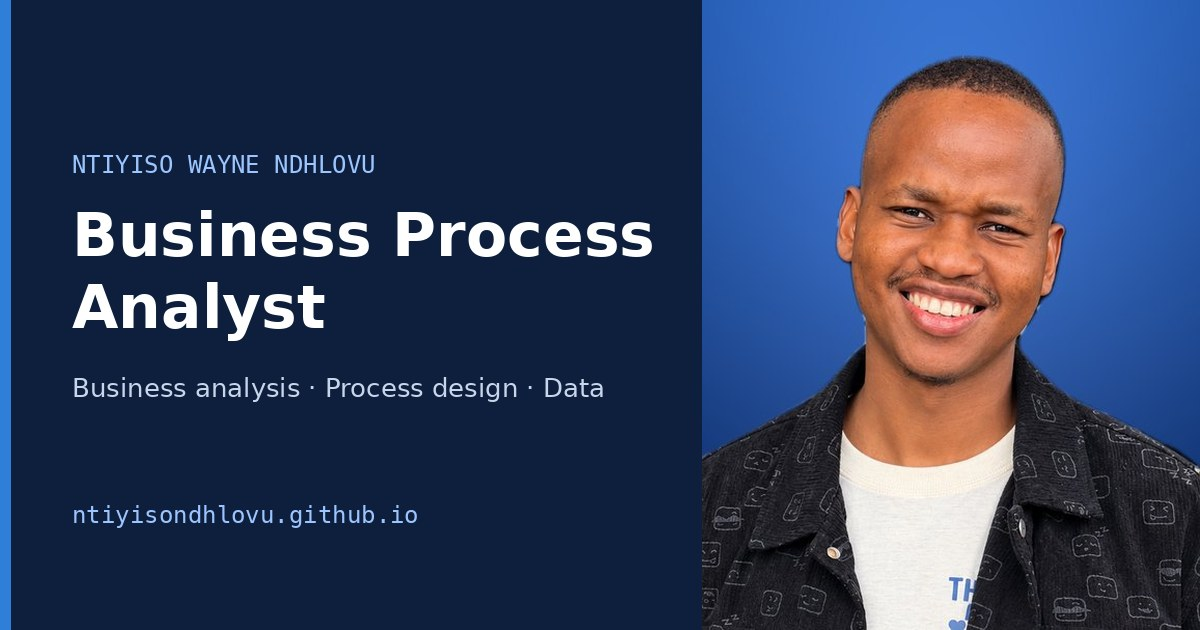
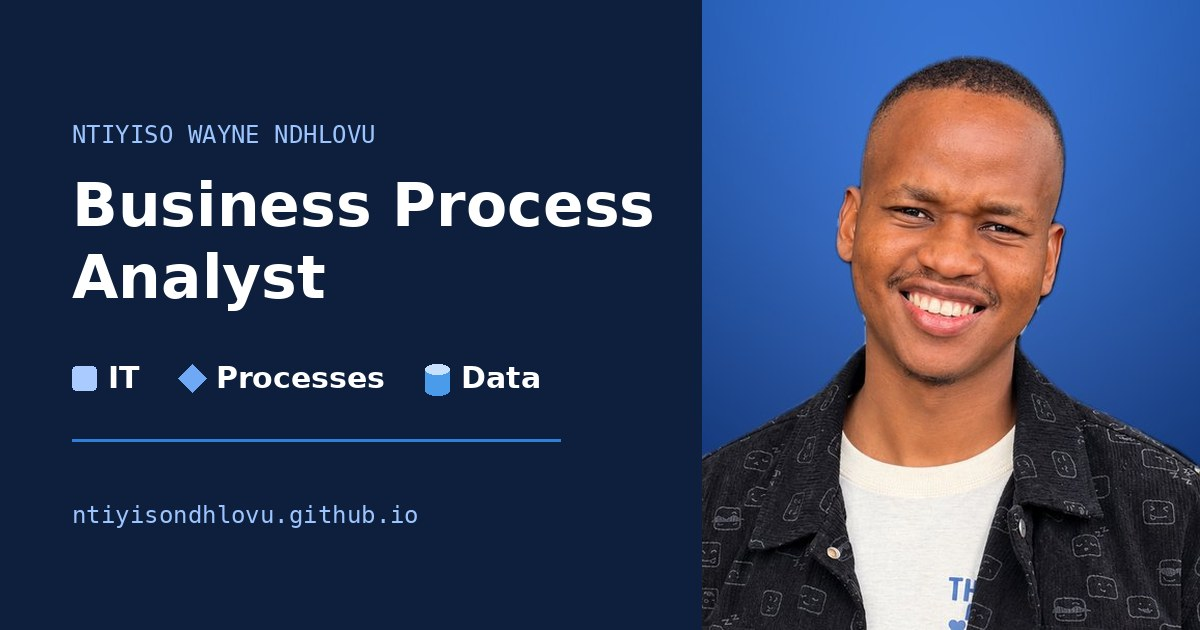
Brand the site around IT, processes and data

diff --git a/index.html b/index.html
@@ -9,8 +9,8 @@ title: Business Process Analyst
         <div class="status">Business Process Analyst · African Bank</div>
       </div>
       <h1>I turn how work actually gets done into <em>processes people can follow.</em></h1>
-      <p class="lede">I'm a business analyst by training, with four years of it in banking. I gather requirements, map value streams, model processes in BPMN and write the SOPs operations teams work from. I started out writing code and building dashboards, and I'm now moving into data engineering so the processes I design can be measured.</p>
-      <div class="chips hero-chips"><span class="chip">Requirements</span><span class="chip">User stories</span><span class="chip">BPMN</span><span class="chip">UAT</span><span class="chip">SOPs</span><span class="chip">Power BI</span></div>
+      <p class="lede">I work where IT, processes and data meet. I'm a computer science graduate turned business analyst, with four years in banking. I gather requirements, map value streams, model processes in BPMN and write the SOPs operations teams work from. I started out writing code and building dashboards, and I'm now moving into data engineering so the processes I design can be measured.</p>
+      <div class="pillar-chips"><a href="#pillars" class="pc it"><i></i>IT</a><a href="#pillars" class="pc proc"><i></i>Processes</a><a href="#pillars" class="pc data"><i></i>Data</a></div>
       <div class="ctas">
         <a class="btn primary" href="#projects">See my projects</a>
         <a class="btn" href="#contact">Get in touch</a>
@@ -27,6 +27,30 @@ title: Business Process Analyst
       </ol>
     </div>
   </div>
+
+  <section id="pillars">
+    <div class="head"><div class="label">What I bring</div><h2>IT, processes and data, in one analyst</h2><p class="prose" style="margin:0">Most problems I work on sit across all three: a system that holds the data, a process that moves the work, and the numbers that show whether it's working.</p></div>
+    <div class="pillars">
+      <article class="pillar it">
+        <div class="pillar-top"><span class="pillar-icon"><svg viewBox="0 0 24 24" aria-hidden="true"><rect x="3" y="4" width="18" height="12" rx="2"/><path d="M8 20h8M12 16v4"/></svg></span><span class="label">Where I started</span></div>
+        <h3>IT</h3>
+        <p>A computer science degree, an Honours in IT and a year as a graduate software developer. I read ERDs, turn business needs into technical specifications and talk to IT teams in their own terms.</p>
+        <div class="chips"><span class="chip">Systems analysis</span><span class="chip">SQL</span><span class="chip">C# &amp; Python</span><span class="chip">Jira &amp; Confluence</span></div>
+      </article>
+      <article class="pillar proc">
+        <div class="pillar-top"><span class="pillar-icon"><svg viewBox="0 0 24 24" aria-hidden="true"><path d="M12 3l7 9-7 9-7-9z"/></svg></span><span class="label">What I do every day</span></div>
+        <h3>Processes</h3>
+        <p>Requirements workshops, value streams, BPMN models from L0 to L4, SOPs and UAT. I design how work should flow and write it down so people can follow it.</p>
+        <div class="chips"><span class="chip">Requirements</span><span class="chip">BPMN</span><span class="chip">SOPs</span><span class="chip">UAT</span></div>
+      </article>
+      <article class="pillar data">
+        <div class="pillar-top"><span class="pillar-icon"><svg viewBox="0 0 24 24" aria-hidden="true"><ellipse cx="12" cy="6" rx="7" ry="3"/><path d="M5 6v12c0 1.7 3.1 3 7 3s7-1.3 7-3V6M5 12c0 1.7 3.1 3 7 3s7-1.3 7-3"/></svg></span><span class="label">Where I'm heading</span></div>
+        <h3>Data</h3>
+        <p>Power BI models on star schemas, data quality grounded in my DAMA CDMP, and lakehouse builds on AWS. I'm growing from BI into data engineering.</p>
+        <div class="chips"><span class="chip">Power BI &amp; DAX</span><span class="chip">SQL</span><span class="chip">AWS</span><span class="chip">DAMA CDMP</span></div>
+      </article>
+    </div>
+  </section>
 
   <section id="about">
     <div class="head"><div class="label">About</div><h2>Process first, data next</h2></div>

diff --git a/assets/css/site.css b/assets/css/site.css
@@ -215,3 +215,31 @@ body > footer a{color:inherit}
 .share .label{margin-right:4px}
 .share .btn{cursor:pointer;background:var(--bg);font-family:var(--mono)}
 .share-li{background:#0A66C2 !important;color:#fff !important;border-color:#0A66C2 !important}
+
+/* brand: IT · Processes · Data */
+:root{--it:#0F3D7A;--proc:#1F5FBF;--data:#4A9BEA}
+@media (prefers-color-scheme: dark){:root:not([data-theme="light"]){--it:#A9CBFF;--proc:#6FA8F5;--data:#3D8BE0}}
+:root[data-theme="dark"]{--it:#A9CBFF;--proc:#6FA8F5;--data:#3D8BE0}
+.brand{display:flex;align-items:center;gap:12px;color:var(--ink)}
+.mark{width:58px;height:22px;flex:none;color:var(--line)}
+.brand-text{display:grid;line-height:1.15}
+.brand-text small{font-family:var(--mono);font-size:10.5px;font-weight:400;letter-spacing:.08em;text-transform:uppercase;color:var(--muted)}
+.pillar-chips{display:flex;flex-wrap:wrap;gap:10px;margin:-10px 0 28px}
+.pc{display:inline-flex;align-items:center;gap:8px;font-family:var(--mono);font-size:12.5px;text-decoration:none;color:var(--ink);border:1px solid var(--line);border-radius:999px;padding:6px 14px 6px 10px}
+.pc i{width:10px;height:10px;border-radius:2px;background:var(--it)}
+.pc.proc i{background:var(--proc);transform:rotate(45deg)}
+.pc.data i{background:var(--data);border-radius:50%}
+.pc:hover{border-color:var(--accent)}
+.pillars{display:grid;grid-template-columns:repeat(3,minmax(0,1fr));gap:20px}
+@media(max-width:860px){.pillars{grid-template-columns:1fr}}
+.pillar{background:var(--surface);border:1px solid var(--line);border-radius:12px;padding:24px;display:flex;flex-direction:column;gap:10px;position:relative;overflow:hidden}
+.pillar::before{content:"";position:absolute;inset:0 0 auto 0;height:4px;background:var(--it)}
+.pillar.proc::before{background:var(--proc)}
+.pillar.data::before{background:var(--data)}
+.pillar-top{display:flex;align-items:center;gap:12px}
+.pillar-icon{width:40px;height:40px;border-radius:10px;display:grid;place-items:center;background:var(--it);flex:none}
+.pillar.proc .pillar-icon{background:var(--proc)}
+.pillar.data .pillar-icon{background:var(--data)}
+.pillar-icon svg{width:22px;height:22px;fill:none;stroke:var(--bg);stroke-width:1.8;stroke-linejoin:round;stroke-linecap:round}
+.pillar h3{font-size:26px}
+.pillar p{margin:0;color:var(--muted);font-size:15px;flex:1}

diff --git a/_includes/header.html b/_includes/header.html
@@ -1,7 +1,7 @@
 <header>
   <div class="wrap">
     <nav>
-      <a class="brand" href="{{ "/" | relative_url }}">Ntiyiso Wayne Ndhlovu</a>
+      <a class="brand" href="{{ "/" | relative_url }}">{% include mark.svg %}<span class="brand-text"><span>Ntiyiso Wayne Ndhlovu</span><small>IT · Processes · Data</small></span></a>
       <div class="links">
         <a href="{{ "/" | relative_url }}#about">About</a><a href="{{ "/" | relative_url }}#ba">Business analysis</a><a href="{{ "/" | relative_url }}#journey">Journey</a><a href="{{ "/" | relative_url }}#projects">Projects</a><a href="{{ "/" | relative_url }}#learning">Education</a><a href="{{ "/blog/" | relative_url }}">Blog</a><a href="{{ "/" | relative_url }}#contact">Contact</a>
       </div>

diff --git a/_layouts/default.html b/_layouts/default.html
@@ -4,6 +4,8 @@
 <meta charset="UTF-8">
 <meta name="viewport" content="width=device-width, initial-scale=1.0">
 {% seo %}
+<link rel="icon" type="image/svg+xml" href="{{ "/assets/images/mark.svg" | relative_url }}">
+<meta name="theme-color" content="#0D1F3C">
 <link rel="preconnect" href="https://fonts.googleapis.com">
 <link href="https://fonts.googleapis.com/css2?family=Bricolage+Grotesque:opsz,wght@12..96,500;12..96,700&family=Public+Sans:wght@400;500;600&family=JetBrains+Mono:wght@400;500&display=swap" rel="stylesheet">
 <link rel="stylesheet" href="{{ "/assets/css/site.css" | relative_url }}">

diff --git a/blog/index.html b/blog/index.html
@@ -1,12 +1,12 @@
 ---
 layout: default
 title: Blog
-description: Notes on business analysis, process design and data by Ntiyiso Wayne Ndhlovu.
+description: Notes on IT, processes and data by Ntiyiso Wayne Ndhlovu.
 ---
 <main class="wrap">
   <section class="blog-head">
     <div class="label">Blog</div>
-    <h1>Notes on analysis, process and data</h1>
+    <h1>Notes on IT, processes and data</h1>
     <p class="prose">What I'm learning as a business and process analyst moving into data engineering.</p>
   </section>
   {% if site.posts.size > 0 %}

diff --git a/_includes/footer.html b/_includes/footer.html
@@ -1,1 +1,1 @@
-<footer><div class="wrap foot-row"><span>© {{ site.time | date: "%Y" }} Ntiyiso Wayne Ndhlovu · Johannesburg</span><span><a href="{{ "/blog/" | relative_url }}">Blog</a> · <a href="{{ "/blog/feed.xml" | relative_url }}">RSS</a></span></div></footer>
+<footer><div class="wrap foot-row"><span>© {{ site.time | date: "%Y" }} Ntiyiso Wayne Ndhlovu · IT · Processes · Data · Johannesburg</span><span><a href="{{ "/blog/" | relative_url }}">Blog</a> · <a href="{{ "/blog/feed.xml" | relative_url }}">RSS</a></span></div></footer>
